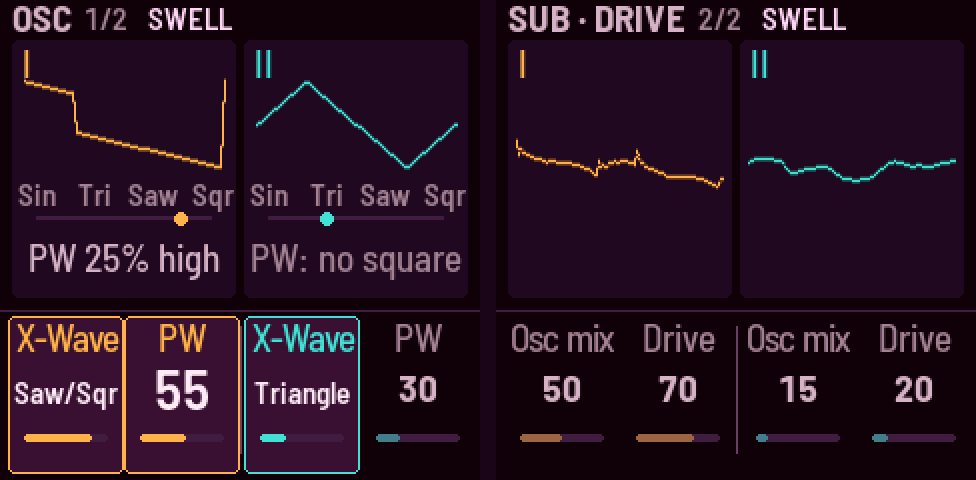
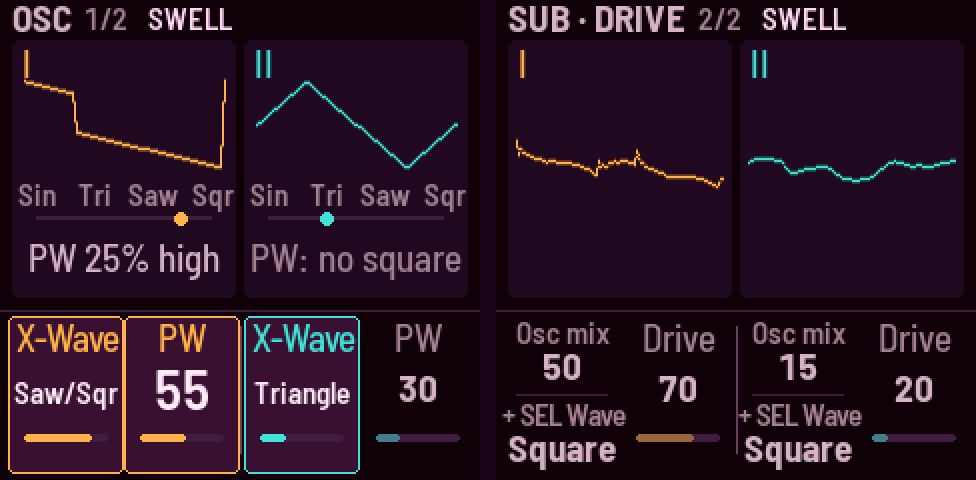
Each drone's sub wave, on SEL + its Osc mix knob; Gesture time respread, shown in seconds
The sub goes round Square (as before), Sine, Triangle, Saw, each as loud (RMS) as the square, a change gliding through
as its octave's does. Sub · Drive's Osc mix cards show both jobs in two halves ("+ SEL Wave"), as FX's KNOB 4; any knob
can have a SEL job now. PROJ_FORMAT 37 (110 values), 36's read and widened, the subs square.

Gesture time: 50 as before; slower evenly in seconds to x12, faster only to x4; the screen shows Weight's time.

Changed region(s): [[0.7377, 0.6562, 0.8914, 0.9688], [0.4918, 0.6562, 0.6455, 0.9688]]

diff --git a/web/emu/index.html b/web/emu/index.html
@@ -375,7 +375,7 @@ kbd { font: 500 .85em var(--mono); background: var(--card); border: 1px solid va
       <div><dt>Weight · Shift · Clean · Wash</dt><dd>The top four <span class="cap white">white keys</span>: hold to bring in, let go and it leaves as slowly as you held it</dd></div>
       <div><dt>Tick · Chord · Snarl · Stutter</dt><dd><span class="cap white">Keys 9–12</span>, each the partner of the top key four to its right: on the FM‑1 they go as deep as you press; here, all the way while held</dd></div>
       <div><dt>Keep one</dt><dd>Tap a gesture key: all the way, to stay (tap again: it goes). Tap <span class="cap">SEL</span> while holding one: it stays where it got to</dd></div>
-      <div><dt>Gesture time</dt><dd><span class="cap">PRESETS</span>: every gesture faster (turn right) or slower (left), even while it moves</dd></div>
+      <div><dt>Gesture time</dt><dd><span class="cap">PRESETS</span>: how long every gesture takes, shown as Weight's time: left slower (up to 34 s), right faster (to 0.7 s), even while it moves</dd></div>
       <div><dt>Shift’s move</dt><dd><span class="cap">SEQ</span> twice (Pitch moves), <span class="cap">KNOB 1</span>: a fifth down to a fifth up</dd></div>
     </dl>
   </div>
@@ -427,7 +427,7 @@ kbd { font: 500 .85em var(--mono); background: var(--card); border: 1px solid va
         <div class="g-btn">EDIT</div>
         <div class="pstack">
         <div class="g-page"><i>Osc</i><span class="k d1"><span class="sr">Knob 1, drone I: </span>X‑Wave<small>sine → square</small></span><span class="k d1"><span class="sr">Knob 2, drone I: </span>PW<small>square width</small></span><span class="k d2"><span class="sr">Knob 3, drone II: </span>X‑Wave<small>sine → square</small></span><span class="k d2"><span class="sr">Knob 4, drone II: </span>PW<small>square width</small></span></div>
-        <div class="g-page"><i>Sub · Drive</i><span class="k d1"><span class="sr">Knob 1, drone I: </span>Osc mix<small>osc ↔ sub</small></span><span class="k d1"><span class="sr">Knob 2, drone I: </span>Drive</span><span class="k d2"><span class="sr">Knob 3, drone II: </span>Osc mix<small>osc ↔ sub</small></span><span class="k d2"><span class="sr">Knob 4, drone II: </span>Drive</span></div>
+        <div class="g-page"><i>Sub · Drive</i><span class="k d1"><span class="sr">Knob 1, drone I: </span>Osc mix<small>osc ↔ sub · + SEL: sub wave</small></span><span class="k d1"><span class="sr">Knob 2, drone I: </span>Drive</span><span class="k d2"><span class="sr">Knob 3, drone II: </span>Osc mix<small>osc ↔ sub · + SEL: sub wave</small></span><span class="k d2"><span class="sr">Knob 4, drone II: </span>Drive</span></div>
         </div>
       </div>
       <div class="pblock">
@@ -743,10 +743,10 @@ function hit(c, cls) {
 // what each control does, on hover (the Buttons list below says the same)
 const TIP = { FX: "Delay: drive, time, repeats, mix; SEL + KNOB 4: the delay type (again: Reverb: length to Inf, damp, type, mix; SEL + KNOB 4: what goes into it)", SEL: "Hold while turning: fine (pitch in cents, cutoff and resonance in tenths); with a top white key: a bank (A, B, C, Presets); with PLAY: drone II alone",
   ENV: "Life: character, feedback, age, drift (again: Tone: noise and its colour, white to pink); hold to peek", LFO: "LFO depths: each drone's osc and filter depth; the keys pick the routing (again: Mods: rate mod, mod by, X-mod amount, delay LFO)",
-  EDIT: "Osc: X-Wave, pulse width (again: Sub · Drive: osc mix, drive); hold to peek", GLO: "Setup 1: fade, switch time, scene time (again: Setup 2: tune, stereo width, pressure)",
+  EDIT: "Osc: X-Wave, pulse width (again: Sub · Drive: osc mix, with SEL the sub's wave; drive); hold to peek", GLO: "Setup 1: fade, switch time, scene time (again: Setup 2: tune, stereo width, pressure)",
   HOME: "Drones 1: pitch, cutoff (again: Drones 2: levels, resonance)", SAVE: "Save; hold it first, then tap a white key: store a scene (in bank A, B or C)", ARP: "Swell: tap for its page, tap again there: on / off; hold to peek", SEQ: "Partner: interval, detune (again: Pitch moves: Shift's move, pitch glide, Wander, its scale)",
   PLAY: "Drones in / out (with SEL: drone II alone)", REC: "Motion loop: tap to record knob moves, gestures and scenes, again to loop, again to stop", "OCT-": "LFO Wave I: tap for the next shape (with SEL: the one before)", "OCT+": "LFO Wave II: tap for the next shape (with SEL: the one before)",
-  SELECT: "LFO rate", PRESETS: "Gesture time: every gesture faster (right) or slower (left)", ALGORITHM: "Movement: every LFO depth together",
+  SELECT: "LFO rate", PRESETS: "Gesture time: how long every gesture takes, left slower, right faster", ALGORITHM: "Movement: every LFO depth together",
   KNOB1: "Drone I", KNOB2: "Drone I", KNOB3: "Drone II", KNOB4: "Drone II", MASTER: "Volume" };
 for (const [n, c] of [...Object.entries(buttons), ...Object.entries(knobs)]) if (TIP[n]) c.g.setAttribute("aria-description", TIP[n]);
 // the keys: the black ones as switches (and what they do on the LFO pages), the white ones as scenes

diff --git a/firmware/src/app/ui.c b/firmware/src/app/ui.c
@@ -1529,26 +1529,32 @@ static void gesture_up(int g)
     }
 }
 static char *dec1(float v, char *b);                   /* below */
-static float mtime_k(void)                             /* GESTURE TIME: the gestures' times x 0.1 .. x 10 */
+/* GESTURE TIME: the gestures' times x 0.25 .. x 12, 50 as set. Slower, evenly in seconds (each detent the same time
+ * more, to 12x); faster, by ratio and only to 4x (Evan, 2026-10-28: most of the old x 0.1 .. x 10 was fast, the slow
+ * end a few big jumps; a slow one is for a tap, which latches and comes in by itself) */
+static float mtime_k(void)
 {
-    return fm_exp2f(((float)proj.mtime - 50.0f) * 0.0664386f);
+    float m = (float)proj.mtime;
+    return m > 50.0f ? 1.0f + (m - 50.0f) * 0.22f : fm_exp2f((m - 50.0f) * 0.04f);
 }
-static void mtime_turn(int32_t e)                      /* PRESETS: Gesture time, shown as a speed (x0.1 .. x10):
-                                                        * right is faster (Evan, 2026-10-24) */
+static void mtime_turn(int32_t e)                      /* PRESETS: Gesture time, shown as Weight's time in (the
+                                                        * others scale with it): right is faster (Evan, 2026-10-24) */
 {
     int v = (int)proj.mtime - (int)e;
-    float k;
+    float t;
     char *q;
     proj.mtime = (uint8_t)(v < 0 ? 0 : v > 100 ? 100 : v);
     mark_dirty();
-    k = 1.0f / mtime_k();
+    t = fm_exp2f((float)DR_GEST_TIME[DR_G_WEIGHT] * 0.0490689f) * mtime_k();
     scopy(ui.glab[0], "GESTURE TIME");
     q = ui.glab[1];
-    *q++ = 'x';
-    if (k < 9.95f)
-        dec1(k, q);
+    if (t < 9.95f)
+        q = dec1(t, q);
     else
-        itoa_u((uint32_t)(k + 0.5f), q);
+        itoa_u((uint32_t)(t + 0.5f), q);
+    while (*q)
+        q++;
+    scopy(q, " s");
     ui.glab_until = plat_ms() + 1500u;
     ui.act_t = plat_ms();
 }

diff --git a/firmware/src/app/app.h b/firmware/src/app/app.h
@@ -48,7 +48,7 @@ typedef struct {
     int16_t par[DR_NPARAMS];             /* drone.h parameters */
     uint8_t leds;                        /* key lights on */
     uint8_t bank;                        /* the bank the scene keys play (0 A .. 3 Presets) */
-    uint8_t mtime;                       /* GESTURE TIME, 0..100 (PRESETS): every gesture's speed x0.1 .. x10, 50 as set
+    uint8_t mtime;                       /* GESTURE TIME, 0..100 (PRESETS): every gesture's time x0.25 .. x12, 50 as set
                                           * (the player's, not a scene's; was the macro PRESETS played, format <= 25) */
     uint8_t gkey_old[4];                 /* unused since 29 (what each gesture key played, 27-28) */
     uint8_t seen[2];                     /* the one-time tips shown (bit TIP_*; v0.3): the player's, not a scene's */

diff --git a/host/omni_host.c b/host/omni_host.c
@@ -393,6 +393,8 @@ static int expect(const char *what, const char *val)
         got = ui.view;
     else if (!strcmp(what, "keymap"))             /* the black keys' map showing (SEL held) */
         got = keymap_on();
+    else if (!strcmp(what, "mtime"))              /* Gesture time, 0..100 (PRESETS; 50 as set, higher slower) */
+        got = proj.mtime;
     else if (!strcmp(what, "dirty"))
         got = ui.dirty;
     else if (!strcmp(what, "loop"))                /* the motion loop: 0 idle, 1 recording, 2 playing */

diff --git a/README.md b/README.md
@@ -168,9 +168,12 @@ parts come in one after another, and go in their own order when you let go. Scen
   it goes half way in); ease off and it comes back; let go and it goes.
 - On any gesture key, a **tap** (a press under half a second) takes it all the way and keeps it; tap again and it
   goes. **Tap SEL while holding one** and it stays where it has got to. Its key glows dimly, and lights as it comes in.
-- **PRESETS is Gesture time**: it speeds up or slows down every gesture, coming in and going out: right is faster, up
-  to 10 times (x10), left slower, down to a tenth (x0.1). The middle is each gesture's own time: Weight 2.8 s, Shift
-  3.9 s, Clean and Wash 3.3 s, Tick, Chord, Snarl and Stutter 6.5 s. Turn it while a gesture moves to change it on the way.
+- **PRESETS is Gesture time**: how long every gesture takes, coming in and going out. The screen shows Weight's time
+  ("GESTURE TIME 2.8 s"); the others scale with it. The middle is each gesture's own time: Weight 2.8 s, Shift 3.9 s,
+  Clean and Wash 3.3 s, Tick, Chord, Snarl and Stutter 6.5 s. Left is slower, each detent a little more time, up to
+  12 times as long (Weight 34 s); right is faster, up to 4 times (Weight 0.7 s). For a long one, tap the key: it
+  latches and comes in on its own, and a tap lets it go over the same time. Turn it while a gesture moves to change
+  it on the way.
 - **The LFOs step aside**: while a gesture is in, the LFO that moves the same thing eases off (the filter LFO for
   Weight's cutoff, the oscillator LFO for Shift's pitch), so
   a high **Movement** doesn't wobble what the gesture is doing. **Wash** also eases the filter LFOs to a third, so
@@ -250,11 +253,15 @@ glides: a slow turn is a smooth sweep, never steps; turn faster to go further. T
 | Page | KNOB 1 | KNOB 2 | KNOB 3 | KNOB 4 |
 |---|---|---|---|---|
 | Osc | I X-Wave | I PW (pulse width) | II X-Wave | II PW |
-| Sub · Drive | I osc mix | I drive | II osc mix | II drive |
+| Sub · Drive | I osc mix (+ SEL: sub wave) | I drive | II osc mix (+ SEL: sub wave) | II drive |
 
 - **X-Wave** blends sine → triangle → saw → square; **PW** is the square's pulse width. The sine and the triangle are a
   little louder than the saw and the square, so they still carry on a small speaker.
 - **Osc mix** goes from the oscillators to the sub; **drive** pushes each drone into its filter.
+- **The sub's wave**: hold SEL and turn a drone's Osc mix knob: **Square** (as it starts), **Sine** (pure weight, the
+  deepest on headphones, the least for a small speaker), **Triangle**, **Saw** (the brightest). Each is as loud as the
+  square, and a change glides through, as the sub's octave does. The card shows both: the mix above, "+ SEL Wave"
+  below.
 
 #### Partner · SEQ
 

diff --git a/docs/decisions.md b/docs/decisions.md
@@ -467,3 +467,9 @@ at the end. The current state is in the [README](../README.md) and the code.
   (and its latch), a scene tapped, a scene blended by pressure. Played back, a gesture is the loop's or the hand's,
   whichever is more; a loop with scenes starts each pass from the whole sound it began on. On Delay and Reverb, SEL's
   key map waits 1.5 s (0.4 elsewhere), and once KNOB 4's SEL job turns, not until SEL is let go.
+- 2026-10-28 (Evan): **each drone's sub wave** is a choice, SEL + its Osc mix knob (Sub · Drive), the card in two
+  halves: Square (as before, the default), Sine, Triangle, Saw, each as loud (RMS) as the square, a change gliding
+  through as the octave's does. PROJ_FORMAT 37 (110 values: `P_SUBW_0`, `P_SUBW_1`). **Gesture time** respread: 50 as
+  before; slower evenly in seconds to x12 (Weight 34 s), faster only to x4 (0.7 s); shown as Weight's time ("2.8 s").
+  A per-note envelope for Wander was drawn and set aside; a Lyra-like "plate" gesture (pressure opens a drone) is a
+  0.4 idea.
